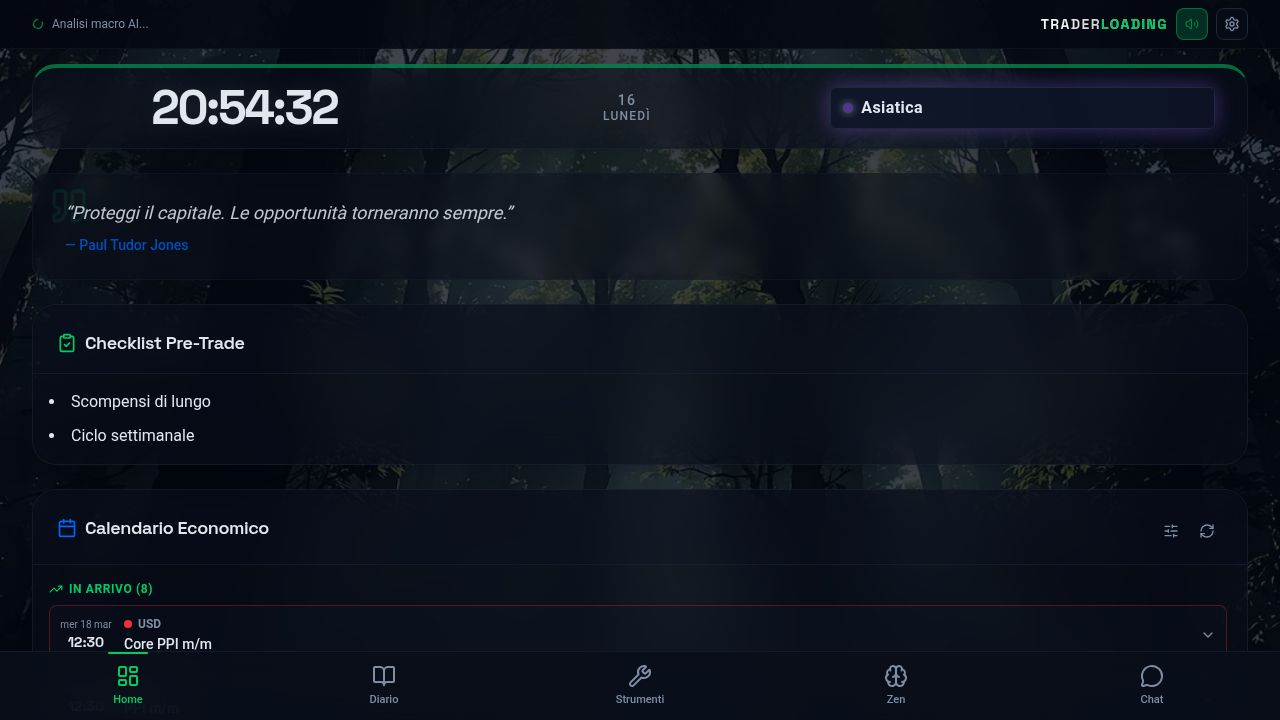
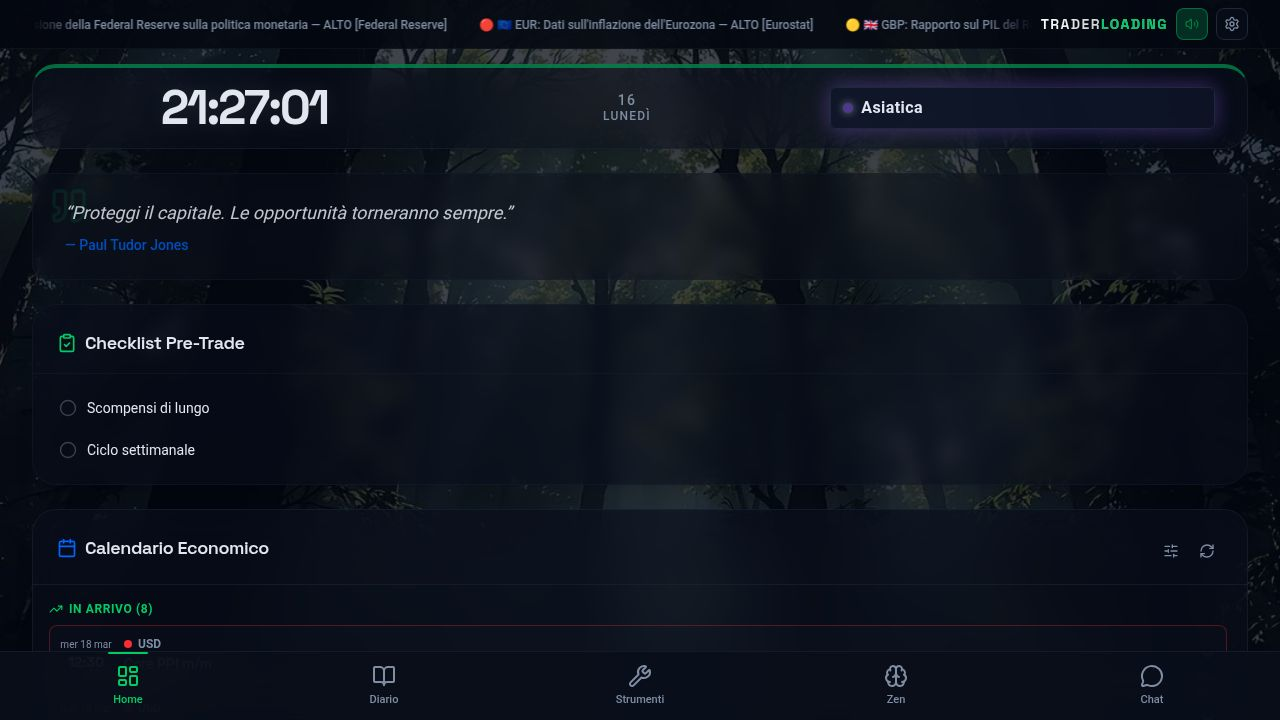
Task #24: UI/Design Refinement — Homogeneity & Polish
T001: Added 2s safety setTimeout in AudioContext.tsx so loading screen never gets stuck
T002: Rewrote Zen.tsx with RAF breathing animation, Italian labels, SVG arc ring, phase colors
T003: Created PageHeader component and integrated into ALL pages (Journal, Checklist, News, Backtest, Tools, Chat, Settings)
T004: Rewrote ChecklistDashboardWidget with checkbox-style rows (CheckCircle2/Circle icons)
T005: Replaced all glass-card CSS class usages with inline Card-style classes (bg-card/60 backdrop-blur-sm border-border/30) across Journal, Tools, News, Backtest, not-found pages
T006: Fixed MeditationTimer ring geometry to r=45 (circumference ~282.7); verified all pages via screenshots and e2e tests

diff --git a/artifacts/trader-dashboard/src/pages/Chat.tsx b/artifacts/trader-dashboard/src/pages/Chat.tsx
@@ -1,6 +1,7 @@
 import { useState, useEffect, useRef, useCallback } from "react";
 import { motion, AnimatePresence } from "framer-motion";
 import { PageLayout } from "@/components/PageLayout";
+import { PageHeader } from "@/components/PageHeader";
 import { useE2EEKeys } from "@/hooks/useE2EEKeys";
 import { useAuth } from "@workspace/replit-auth-web";
 import { getSharedKey, encryptMessage, decryptMessage } from "@/lib/e2ee";
@@ -892,7 +893,7 @@ export default function Chat() {
       <div className="flex items-center justify-center h-[60vh]">
         <div className="text-center space-y-4">
           <Globe className="w-16 h-16 mx-auto text-primary opacity-40" />
-          <h2 className="text-xl font-bold">Community Trader</h2>
+          <h2 className="text-xl font-bold font-mono tracking-tight">Community Trader</h2>
           <p className="text-muted-foreground">Accedi per entrare nella community, pubblicare post e chattare con gli altri trader</p>
           <button onClick={() => login()} className="inline-flex items-center gap-2 px-6 py-3 bg-primary text-primary-foreground rounded-xl font-medium hover:bg-primary/90 transition-colors">
             <LogIn className="w-4 h-4" /> Accedi
@@ -910,10 +911,11 @@ export default function Chat() {
 
   return (
     <PageLayout>
+      <PageHeader title="Community Trader" subtitle="Social, messaggi crittografati e classifica" />
       <motion.div
         initial={{ opacity: 0, y: 20 }} animate={{ opacity: 1, y: 0 }}
         className="bg-card/30 backdrop-blur-md border border-border rounded-2xl overflow-hidden flex flex-col"
-        style={{ height: "calc(100vh - 140px)" }}
+        style={{ height: "calc(100vh - 180px)" }}
       >
         <div className="flex border-b border-border shrink-0">
           {tabs.map(tab => (

diff --git a/artifacts/trader-dashboard/src/pages/Zen.tsx b/artifacts/trader-dashboard/src/pages/Zen.tsx
@@ -331,7 +331,7 @@ function MeditationTimer() {
 
   const remaining = minutes * 60 + seconds;
   const progress = totalSeconds > 0 ? ((totalSeconds - remaining) / totalSeconds) * 100 : 0;
-  const circumference = 2 * Math.PI * 46;
+  const circumference = 2 * Math.PI * 45;
   const dashOffset = circumference * (1 - progress / 100);
 
   return (
@@ -344,9 +344,9 @@ function MeditationTimer() {
 
         <div className="relative w-36 h-36 sm:w-48 sm:h-48">
           <svg className="w-full h-full -rotate-90" viewBox="0 0 100 100">
-            <circle cx="50" cy="50" r="46" fill="none" strokeWidth="3" className="stroke-muted-foreground/15" />
+            <circle cx="50" cy="50" r="45" fill="none" strokeWidth="3" className="stroke-muted-foreground/15" />
             <circle
-              cx="50" cy="50" r="46"
+              cx="50" cy="50" r="45"
               fill="none"
               strokeWidth="3.5"
               strokeLinecap="round"

diff --git a/artifacts/trader-dashboard/src/pages/Settings.tsx b/artifacts/trader-dashboard/src/pages/Settings.tsx
@@ -1,6 +1,7 @@
 import React, { useState, useRef, useEffect } from "react";
 import { motion, AnimatePresence } from "framer-motion";
 import { PageLayout } from "@/components/PageLayout";
+import { PageHeader } from "@/components/PageHeader";
 import { ProfileWidget } from "@/components/ProfileWidget";
 import { AudioPlayer } from "@/components/AudioPlayer";
 import { BackgroundPresetsManager } from "@/components/BackgroundPresetsManager";
@@ -1119,8 +1120,8 @@ export default function Settings() {
 
   return (
     <PageLayout>
+      <PageHeader title="Impostazioni" subtitle="Configura il tuo ambiente di trading" />
       <div className="space-y-6 max-w-4xl mx-auto">
-        {/* Profilo - Always Open */}
         <motion.div
           initial={{ opacity: 0, y: 20 }}
           animate={{ opacity: 1, y: 0 }}